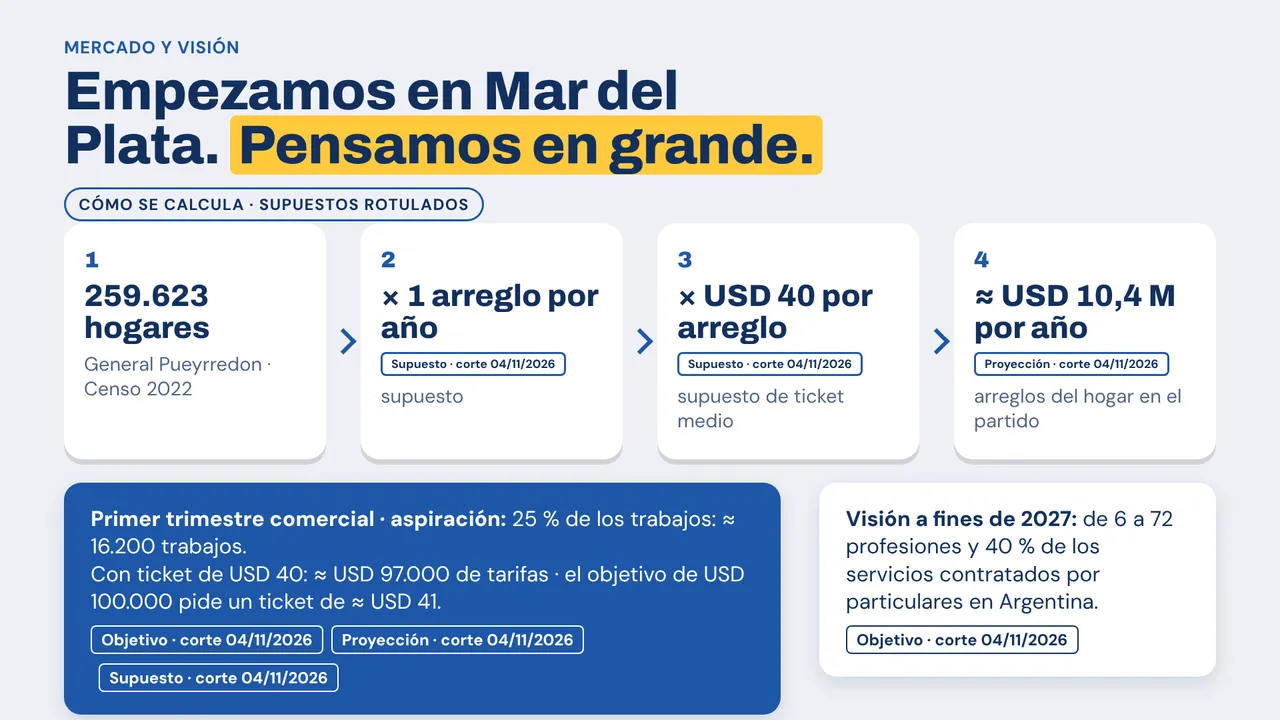
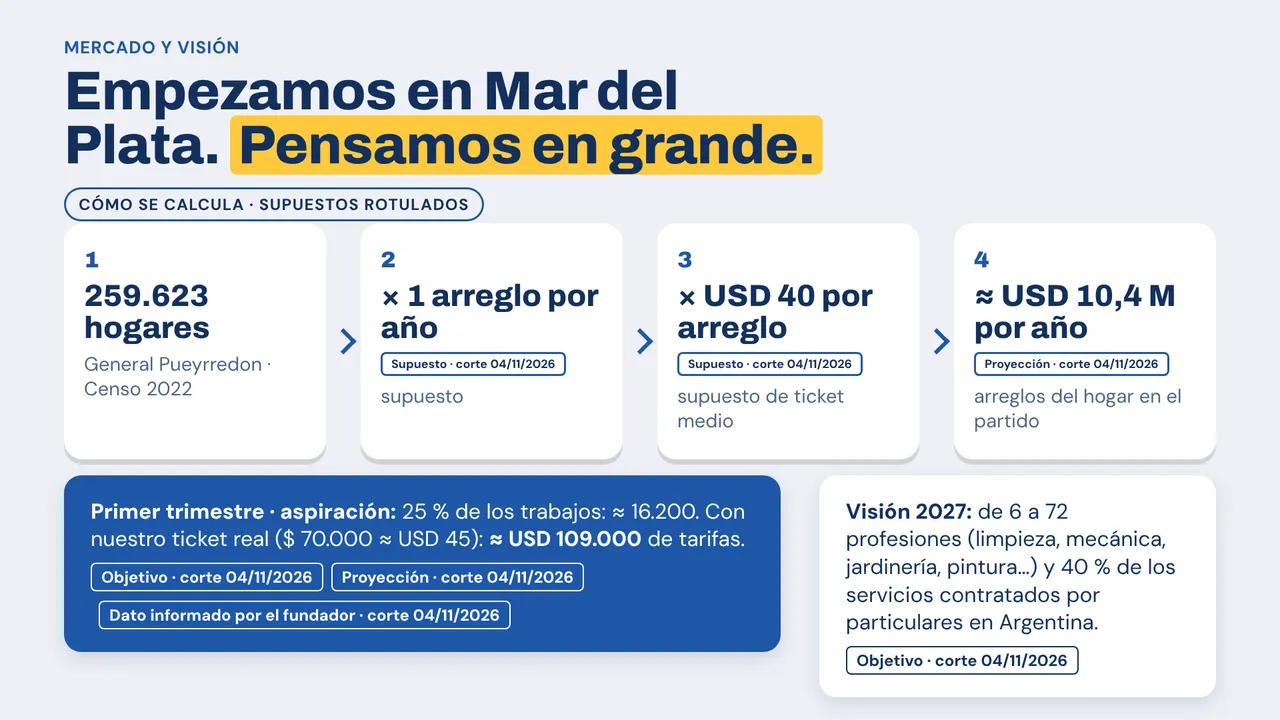
Pitch ATICMA: tickets reales de la prueba y profesiones para llegar a 72
- 5 trabajos: $ 350.000 en trabajos, ticket promedio $ 70.000 (≈ USD 45), informado por Ignacio de memoria
- Proyección con el ticket real: el 25 % del trimestre da ≈ USD 109.000 de tarifas (además del supuesto de USD 40)
- Respaldo «De 6 a 72 profesiones» con ejemplos por categoría (no confirmados) y ejemplos en la visión
- Preguntas del jurado pasan a Mayús + J…U; capturas, guion, validación y respuestas actualizados

Claude-Session: https://claude.ai/code/session_01QGDMaQ7dcXpVtFC21gPk7N

Changed region(s): [[0.0312, 0.7028, 0.9688, 1.0], [0.0625, 0.6417, 0.625, 0.6722]]

diff --git a/scripts/generar-guion-aticma.py b/scripts/generar-guion-aticma.py
@@ -33,8 +33,8 @@ VOZ = {
     'a-odisea': ('Presentación, la odisea, la doble necesidad', 'Logo, casa con algo roto y profesional; encontrar, coordinar, organizar'),
     'a-handia': ('«Imaginen algo»: HandIA y el camino directo por oficio', 'Concepto de HandIA rotulado + capturas reales del pedido por oficio'),
     'a-profesional': ('Trabajos, ingresos, gastos, herramientas; IA a futuro', 'Agenda y caja reales; gastos y herramientas como propuesta; visión IA'),
-    'a-empezamos': ('Apps desarrolladas, porteros, primeros trabajos y comisiones', 'Checklist de evidencia (sin cantidades sin conciliar) + inicio de las dos apps'),
-    'a-mercado': ('6 profesiones, 260 mil hogares, 20 %, USD 100.000, 72 y 4 de cada 10', 'Cuenta: hogares × 1 arreglo × USD 40 ≈ USD 10,4 M/año; 20 % del trimestre ≈ 13.000 trabajos ≈ USD 78.000 (USD 100.000 pide ticket ≈ USD 51)'),
+    'a-empezamos': ('Apps desarrolladas, porteros, primeros trabajos y comisiones', '5 trabajos ($ 350.000, ticket $ 70.000) y 56 registrados, rotulados; agenda y pedido de la demo'),
+    'a-mercado': ('6 profesiones, 260 mil hogares, 20 %, USD 100.000, 72 y 4 de cada 10', 'Cuenta: hogares × 1 arreglo × USD 40 ≈ USD 10,4 M/año; 25 % del trimestre ≈ 16.200 trabajos; con el ticket real de la prueba ($ 70.000 ≈ USD 45) ≈ USD 109.000; profesiones de ejemplo'),
     'a-competencia': ('«La conocemos»: comisión al profesional vs. 15 % al usuario', 'Mapa por modelo de cobro (comisión, contacto, suscripción, cero temporal) con Argentina, región y EE. UU./Europa; reparto de $ 115.000'),
     'a-equipo': ('Equipo, agentes de IA, USD 100.000, Silicon Valley, cierre', 'Equipo e inversión → (paso 2) «Hoy empezamos… arreglar el mundo» con los Handys'),
 }

diff --git a/docs/handyx/aticma-guion.md b/docs/handyx/aticma-guion.md
@@ -3,7 +3,7 @@
 > Generado por `python3 -I scripts/generar-guion-aticma.py` desde `decks/handyx-aticma/deck.json`. No editar a mano:
 > el guion literal vive en el campo `guion` de cada escena (lo ve el presentador en sus notas).
 
-Guion oficial de Ignacio (prompt maestro del 04/11/2026), literal. Versión `evento`: 7 diapositivas principales y 18 láminas de respaldo.
+Guion oficial de Ignacio (prompt maestro del 04/11/2026), literal. Versión `evento`: 7 diapositivas principales y 19 láminas de respaldo.
 
 ## Ritmo
 
@@ -18,8 +18,8 @@ Guion oficial de Ignacio (prompt maestro del 04/11/2026), literal. Versión `eve
 | 1 | La odisea | 0:00–0:25 | 25 | 67 | 161 ppm ⚠ | Presentación, la odisea, la doble necesidad | Logo, casa con algo roto y profesional; encontrar, coordinar, organizar |
 | 2 | HandIA te orienta | 0:25–0:55 | 30 | 62 | 124 ppm | «Imaginen algo»: HandIA y el camino directo por oficio | Concepto de HandIA rotulado + capturas reales del pedido por oficio |
 | 3 | Herramientas para el profesional | 0:55–1:17 | 22 | 28 | 76 ppm | Trabajos, ingresos, gastos, herramientas; IA a futuro | Agenda y caja reales; gastos y herramientas como propuesta; visión IA |
-| 4 | Ya empezamos | 1:17–1:38 | 21 | 36 | 103 ppm | Apps desarrolladas, porteros, primeros trabajos y comisiones | Checklist de evidencia (sin cantidades sin conciliar) + inicio de las dos apps |
-| 5 | Mercado y visión | 1:38–2:04 | 26 | 61 | 141 ppm ⚠ | 6 profesiones, 260 mil hogares, 20 %, USD 100.000, 72 y 4 de cada 10 | Cuenta: hogares × 1 arreglo × USD 40 ≈ USD 10,4 M/año; 20 % del trimestre ≈ 13.000 trabajos ≈ USD 78.000 (USD 100.000 pide ticket ≈ USD 51) |
+| 4 | Ya empezamos | 1:17–1:38 | 21 | 36 | 103 ppm | Apps desarrolladas, porteros, primeros trabajos y comisiones | 5 trabajos ($ 350.000, ticket $ 70.000) y 56 registrados, rotulados; agenda y pedido de la demo |
+| 5 | Mercado y visión | 1:38–2:04 | 26 | 61 | 141 ppm ⚠ | 6 profesiones, 260 mil hogares, 20 %, USD 100.000, 72 y 4 de cada 10 | Cuenta: hogares × 1 arreglo × USD 40 ≈ USD 10,4 M/año; 25 % del trimestre ≈ 16.200 trabajos; con el ticket real de la prueba ($ 70.000 ≈ USD 45) ≈ USD 109.000; profesiones de ejemplo |
 | 6 | Competencia y modelo | 2:04–2:30 | 26 | 58 | 134 ppm | «La conocemos»: comisión al profesional vs. 15 % al usuario | Mapa por modelo de cobro (comisión, contacto, suscripción, cero temporal) con Argentina, región y EE. UU./Europa; reparto de $ 115.000 |
 | 7 | Equipo, inversión y visión | 2:30–3:00 | 30 | 88 | 176 ppm ⚠ | Equipo, agentes de IA, USD 100.000, Silicon Valley, cierre | Equipo e inversión → (paso 2) «Hoy empezamos… arreglar el mundo» con los Handys |
 
@@ -87,15 +87,16 @@ Guion oficial de Ignacio (prompt maestro del 04/11/2026), literal. Versión `eve
 | Mayús + F | Competidores en Argentina | Mostrar a los competidores directos con datos y el diferencial. |
 | Mayús + G | Competidores en la región y el mundo | Mostrar que el modelo existe afuera y cómo cobran. |
 | Mayús + H | Uso de la inversión | Mostrar cómo se usarían los USD 100.000 y qué hitos financian. |
-| Mayús + I | Pregunta 1: ¿Cuál es tu CAC? | Respuesta breve, con números y supuestos rotulados. |
-| Mayús + J | Pregunta 2: ¿Cuánto cuesta mantener Handyx? | Respuesta breve, con números y supuestos rotulados. |
-| Mayús + K | Pregunta 3: ¿De dónde salen el 25 % y los USD 100.000? | Respuesta breve, con números y supuestos rotulados. |
-| Mayús + L | Pregunta 4: ¿Cuántos trabajos tienen cobrados? | Respuesta breve, con números y supuestos rotulados. |
-| Mayús + M | Pregunta 5: ¿HandIA funciona hoy? | Respuesta breve, con números y supuestos rotulados. |
-| Mayús + O | Pregunta 6: ¿Qué los diferencia de Clickie y el resto? | Respuesta breve, con números y supuestos rotulados. |
-| Mayús + P | Pregunta 7: ¿Cómo cobran el 15 %? | Respuesta breve, con números y supuestos rotulados. |
-| Mayús + Q | Pregunta 8: ¿Cómo captan y retienen profesionales? | Respuesta breve, con números y supuestos rotulados. |
-| Mayús + S | Pregunta 9: ¿En qué usarían los USD 100.000? | Respuesta breve, con números y supuestos rotulados. |
-| Mayús + T | Pregunta 10: ¿Qué hacen si los clientes no vuelven? | Respuesta breve, con números y supuestos rotulados. |
+| Mayús + I | De 6 a 72 profesiones | Mostrar con ejemplos concretos cómo se llega a 72 profesiones. |
+| Mayús + J | Pregunta 1: ¿Cuál es tu CAC? | Respuesta breve, con números y supuestos rotulados. |
+| Mayús + K | Pregunta 2: ¿Cuánto cuesta mantener Handyx? | Respuesta breve, con números y supuestos rotulados. |
+| Mayús + L | Pregunta 3: ¿De dónde salen el 25 % y los USD 100.000? | Respuesta breve, con números y supuestos rotulados. |
+| Mayús + M | Pregunta 4: ¿Cuántos trabajos tienen cobrados? | Respuesta breve, con números y supuestos rotulados. |
+| Mayús + O | Pregunta 5: ¿HandIA funciona hoy? | Respuesta breve, con números y supuestos rotulados. |
+| Mayús + P | Pregunta 6: ¿Qué los diferencia de Clickie y el resto? | Respuesta breve, con números y supuestos rotulados. |
+| Mayús + Q | Pregunta 7: ¿Cómo cobran el 15 %? | Respuesta breve, con números y supuestos rotulados. |
+| Mayús + S | Pregunta 8: ¿Cómo captan y retienen profesionales? | Respuesta breve, con números y supuestos rotulados. |
+| Mayús + T | Pregunta 9: ¿En qué usarían los USD 100.000? | Respuesta breve, con números y supuestos rotulados. |
+| Mayús + U | Pregunta 10: ¿Qué hacen si los clientes no vuelven? | Respuesta breve, con números y supuestos rotulados. |
 
 Volver a la última diapositiva principal: tecla **0**. Avanzar (→, espacio, clicker, celular) nunca entra a los anexos.

diff --git a/docs/handyx/aticma-validacion.md b/docs/handyx/aticma-validacion.md
@@ -15,11 +15,11 @@ capturas de revisión: [`capturas-aticma/`](capturas-aticma/).
    Solo presentación (sin presentador): `/presentar/?deck=handyx-aticma&version=evento`.
 4. Diapositiva 7 tiene dos pasos: → al decir «Hoy empezamos en Mar del Plata». Avanzar nunca entra a los anexos.
 5. **Respaldo para el jurado:** Mayús + A (proyección), B (costos y equilibrio), C (CAC y LTV), D (validación), E (roadmap), F (competidores
-   en Argentina), G (región y mundo), H (uso de la inversión) e I…Q (preguntas del jurado 1 a 10, una por diapositiva; sin N ni R);
+   en Argentina), G (región y mundo), H (uso de la inversión), I (de 6 a 72 profesiones) y J…U (preguntas del jurado 1 a 10, una por diapositiva; sin N ni R);
    **0** vuelve a la última diapositiva. También desde el índice del presentador o el menú ☰ del celular.
 6. **Celular:** Conectar control remoto → QR privado (nunca se proyecta) → Aprobar.
 7. **Sin animaciones:** `version=estatica`. **Sin internet:** `npm run paquete:local` o el build servido en la notebook (fuentes y recursos locales).
-8. **Contingencia:** `salida/pdf/handyx-aticma-evento.pdf` (26 páginas: 7 diapositivas, el paso 2 de la 7, 8 de respaldo y 10 de preguntas), el PDF de lectura y
+8. **Contingencia:** `salida/pdf/handyx-aticma-evento.pdf` (27 páginas: 7 diapositivas, el paso 2 de la 7, 9 de respaldo y 10 de preguntas), el PDF de lectura y
    `salida/pptx/handyx-aticma-evento.pptx` (imágenes + guion y notas en las notas del orador). Se regeneran con
    `npm run build && npm run exportar:pdf -- --deck=handyx-aticma --version=evento` y `npm run exportar:pptx -- --deck=handyx-aticma --version=evento`
    (el PPTX necesita python3 con python-pptx).
@@ -37,6 +37,10 @@ capturas de revisión: [`capturas-aticma/`](capturas-aticma/).
 
 **Ajuste del 04/11 (Ignacio):** la aspiración pasó de 20 % a **25 %** de los trabajos del trimestre (guion actualizado). Con los supuestos
 del mentor son ≈ 16.200 trabajos y ≈ USD 97.000 de tarifas con ticket de USD 40; USD 100.000 con ticket de ≈ USD 41.
+
+**Ticket real de la prueba (04/11, Ignacio, de memoria):** cuatro trabajos de $ 50.000 y uno de $ 150.000 = $ 350.000; ticket promedio
+$ 70.000 ≈ USD 45 (BNA 30/10). Con ese ticket, el 25 % del trimestre da ≈ USD 109.000 de tarifas (muestra de 5 trabajos: orientativo).
+Profesiones de ejemplo para llegar a 72: respaldo «De 6 a 72 profesiones» (no confirmadas).
 
 **Costos e inversión (04/11, Ignacio):** servidores USD 100, desarrollo USD 200 y marketing USD 100 por mes (≈ USD 400; se tomaron en
 dólares). Equilibrio ≈ 67 trabajos por mes. CAC ≈ USD 2 con el supuesto de 50 clientes nuevos por mes; LTV ≈ USD 18 con 3 años de permanencia

diff --git a/docs/handyx/aticma-preguntas.md b/docs/handyx/aticma-preguntas.md
@@ -1,6 +1,6 @@
 # Pitch ATICMA 2026 · preguntas difíciles (respuestas completas)
 
-> Actualizado el 04/11 (noche): las diez preguntas del jurado tienen ahora una diapositiva cada una (Mayús + I…Q). Respuestas de pantalla:
+> Actualizado el 04/11 (noche): las diez preguntas del jurado tienen ahora una diapositiva cada una (Mayús + J…U). Respuestas de pantalla:
 > CAC, costos, de dónde sale el número, trabajos cobrados, HandIA, diferencia con Clickie, cobro del 15 %, captar y retener, uso de la inversión,
 > clientes que no vuelven.
 
@@ -14,7 +14,7 @@ mes cubren esos costos.
 Versión corta en pantalla: anexo F (Mayús + F y Mayús + G). Ninguna respuesta agrega cifras ni certezas que no estén en el deck.
 
 1. **¿Por qué creen posible captar el 20 % de los trabajos locales?** Es una aspiración del fundador, no un pronóstico ni una participación
-   actual. Con 1 arreglo por hogar por año (supuesto del mentor), el 25 % del trimestre serían ≈ 16.200 trabajos; todavía no medimos la frecuencia ni el ticket real. Lo primero es la meta operativa de diciembre: 50 trabajos con
+   actual. Con 1 arreglo por hogar por año (supuesto del mentor), el 25 % del trimestre serían ≈ 16.200 trabajos; con el ticket promedio de nuestros 5 trabajos ($ 70.000 ≈ USD 45) dejan ≈ USD 109.000 de tarifas; todavía no medimos la frecuencia ni el ticket real. Lo primero es la meta operativa de diciembre: 50 trabajos con
    tarifa cobrada y 5 clientes que vuelvan a contratar. Con esos datos revisamos la aspiración.
 2. **¿Cómo llegarían al 40 % de las contrataciones particulares de Argentina?** Es la visión a fines de 2027, no un plan validado. Haría
    falta pasar de 6 a 72 profesiones, una red local en cada ciudad y canales como porteros y administradores. No la presentamos como meta

diff --git a/README.md b/README.md
@@ -20,7 +20,7 @@ Hub (`/`): elegí presentación y versión. Presentador: `/presentador/?deck=han
 1. Presentador: `/presentador/?deck=handyx-aticma&version=evento` (o el hub). **Abrir pantalla pública** → proyector → **F**.
 2. Ensayo: **▶ Reloj** (R) · → / espacio / clicker · **■ Finalizar** registra el tiempo y el de cada diapositiva · **Nuevo ensayo** vuelve
    a cero sin recargar · **N** oculta notas. Las notas muestran tramo, guion y próxima transición.
-3. Avanzar nunca entra a los anexos: **Mayús + A…Q** los abre (sin N ni R; I…Q = preguntas del jurado) y **0** vuelve. Diapositiva 7: → en «Hoy empezamos en Mar del Plata».
+3. Avanzar nunca entra a los anexos: **Mayús + A…U** los abre (sin N ni R; A…I = respaldo, J…U = preguntas del jurado) y **0** vuelve. Diapositiva 7: → en «Hoy empezamos en Mar del Plata».
 4. Refrescar el presentador no vuelve al inicio. Sin animaciones: `version=estatica`. Celular: Conectar control remoto → QR privado → Aprobar.
 5. Contingencia: `npm run build && npm run exportar:pdf -- --deck=handyx-aticma --version=evento` y
    `npm run exportar:pptx -- --deck=handyx-aticma --version=evento` (python-pptx) → `salida/`.

diff --git a/docs/handoff.md b/docs/handoff.md
@@ -167,3 +167,5 @@ el workflow compila con `SERVIDOR_CONTROL` y verifica que Render responda. Todo-
 - 04/11 (noche, 2): 25 % en el guion; costos mensuales (USD 400), equilibrio, CAC/LTV con supuestos rotulados; inversión 40/35/25 (propuesta);
   respaldo visual (cifras, barras, íconos Lucide nuevos, mosaicos con columnas y rótulos agrupados) y 10 diapositivas de preguntas del jurado.
   Motor: formato `usd`, `columnas` en mosaicos, rótulos agrupados en grillas, texto legible en nodos y cajas sobre fondo azul.
+- 04/11 (noche, 3): tickets reales de la prueba (4 × $ 50.000 + 1 × $ 150.000, de memoria de Ignacio: $ 350.000, promedio $ 70.000 ≈ USD 45);
+  con ese ticket el 25 % del trimestre da ≈ USD 109.000. Respaldo «De 6 a 72 profesiones» con ejemplos (no confirmados). Preguntas: Mayús + J…U.
